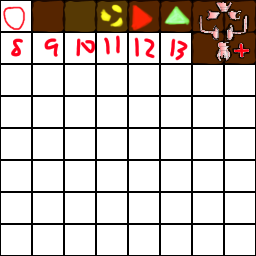
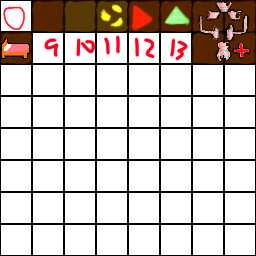
start on day-night cycle

Changed region(s): [[0.0, 0.125, 0.125, 0.25]]

diff --git a/jam-app/src/Game_State/World_State.cpp b/jam-app/src/Game_State/World_State.cpp
@@ -13,13 +13,17 @@ extern Game_App g_game;
 extern int32 g_window_width;
 extern int32 g_window_height;
 
+const real32 day_start = 6;
+const real32 day_end = 10.0;
+
 enum Move_Reason {
     MOVE_NOT_POSSIBLE = 0,
     MOVE_POSSIBLE,
     MOVE_AND_BREAK,
     DEPOSIT_FOOD,
     WITHDRAW_FOOD,
-    ENTER_SHOP
+    ENTER_SHOP,
+    SLEEP
 };
 
 World_State::World_State(const char* filename) {
@@ -56,6 +60,7 @@ World_State::World_State(const char* filename) {
     world.grid.Fill(15, ground_level-4, 8, 5, Tile_Data(1));  // build house
     world.grid[15][ground_level] = Tile_Data(4);    // depositer
     world.grid[14][ground_level+1] = Tile_Data(5);  // withdrawer
+    world.grid[12][ground_level+1] = Tile_Data(8);  // bed
 
     // build upgrade hut
     world.grid[2][ground_level-1] = Tile_Data(6);
@@ -94,6 +99,12 @@ World_State::World_State(const char* filename) {
     dig_strength = 1;
     dig_speed = 1;
 
+    // day-night cycles
+    time_rate = 0.5; // 30 mins every second?
+    time_of_day = day_start;
+    day_number = 1;
+
+    // Hunger
     hunger = 0.0;
     hunger_rate = 0.001;
     move_cost = 0.002;
@@ -115,6 +126,12 @@ World_State::~World_State() {
 void World_State::Update_And_Render(SDL_Renderer* renderer, real32 dt) {
     SDL_SetRenderDrawColor(renderer, 120, 90, 255, 255);
     SDL_RenderClear(renderer);
+
+    // Update Time
+    time_of_day += time_rate * dt;
+    if (time_of_day > 24.0f) {
+        time_of_day -= 24.0f;
+    }
 
     // Draw sprite
     int32 depth = player.world_y - ground_level;
@@ -232,6 +249,27 @@ void World_State::Update_And_Render(SDL_Renderer* renderer, real32 dt) {
     snprintf(buffer, 256, "Depth: %d", depth);
     Render_Text(renderer, g_small_font, color, rect, buffer);
     */
+
+
+    // Time info
+    rect.x = 300;
+    rect.y = 10;
+
+    snprintf(buffer, 256, "Day: %d", day_number);
+    Render_Text(renderer, g_small_font, color, rect, buffer);
+    rect.y += g_font_size_small;
+
+    int32 time_hr = time_of_day;
+    int32 time_min = ((time_of_day - (real32)time_hr) * 60.0f);
+    char* am_pm = "am";
+    if (time_hr >= 12) {
+        time_hr -= 12;
+        am_pm = "pm";
+    }
+    if (time_hr == 0) time_hr = 12;
+    snprintf(buffer, 256, "Time: %2d:%02d %s", time_hr, time_min, am_pm);
+    Render_Text(renderer, g_small_font, color, rect, buffer);
+    rect.y += g_font_size_small;
 }
 
 bool World_State::On_Action_Event(Action_Event action) {
@@ -300,6 +338,14 @@ bool World_State::On_Action_Event(Action_Event action) {
                 }
             } break;
 
+            case SLEEP: {
+                log_info("Going to sleep!");
+                bool allowed_to_sleep = true;
+                if (allowed_to_sleep) {
+                    Next_Day();
+                }
+            } break;
+
             case ENTER_SHOP: {
                 Game_State* new_state = new Shop_State(colony_food, dig_speed, dig_strength);
                 g_game.Push_New_State(new_state);
@@ -365,6 +411,10 @@ uint8 World_State::Move_Entity(int16 start_x, int16 start_y, int16 move_x, int16
         return WITHDRAW_FOOD;
     }
 
+    if (end_cell.type == 8) {
+        return SLEEP;
+    }
+
     if (end_cell.type == 15) {
         return ENTER_SHOP;
     }
@@ -384,4 +434,9 @@ uint8 World_State::Break_Block(int16 world_x, int16 world_y) {
     world.grid[world_x][world_y].type = 0;
 
     return 0;
+}
+
+void World_State::Next_Day() {
+    time_of_day = day_start;
+    day_number++;
 }

diff --git a/jam-app/src/Game_State/Shop_State.cpp b/jam-app/src/Game_State/Shop_State.cpp
@@ -47,13 +47,13 @@ void Shop_State::Update_And_Render(SDL_Renderer* renderer, real32 dt) {
     char buffer[32];
 
     // Shop Title
-    Render_Text(renderer, g_large_font, back_color, rect, "Bug Shop");
+    Render_Text(renderer, g_large_font, back_color, rect, shop_title.c_str());
     rect.x -= offset;
     rect.y -= offset;
-    Render_Text(renderer, g_large_font, color, rect, "Bug Shop");
+    Render_Text(renderer, g_large_font, color, rect, shop_title.c_str());
 
     // Print food/stats
-    rect.y = 50;
+    rect.y = 150;
     rect.x = 400;
     snprintf(buffer, 32, "Food: %d", food);
     Render_Text(renderer, g_medium_font, back_color, rect, buffer);
@@ -110,7 +110,7 @@ void Shop_State::Update_And_Render(SDL_Renderer* renderer, real32 dt) {
     if (current_menu_item != 0) {
         const Upgrade& upgrade = upgrades[current_menu_item - 1];
 
-        rect.y = 200;
+        rect.y = 300;
         rect.x = 450;
 
         Render_Text(renderer, g_medium_font, back_color, rect, upgrade.name.c_str());
@@ -192,9 +192,9 @@ bool Shop_State::On_Action_Event(Action_Event action) {
 }
 
 void Shop_State::Leave_Shop() {
-    if (!Write_Config()) {
-        log_error("Failed to write shop config!");
-    }
+    //if (!Write_Config()) {
+    //    log_error("Failed to write shop config!");
+    //}
 
     g_game.Pop_State();
 }

diff --git a/jam-app/src/Game_State.h b/jam-app/src/Game_State.h
@@ -64,12 +64,16 @@ struct World_State : public Game_State {
 private:
     uint8 Move_Entity(int16 start_x, int16 start_y, int16 move_x, int16 move_y);
     uint8 Break_Block(int16 world_x, int16 world_y);
+    void Next_Day();
 
 private:
     // World
     World world;
     int16 ground_level;
     bool show_debug;
+    real32 time_rate;
+    real32 time_of_day;
+    uint8 day_number;
 
     // Player
     Entity player;
@@ -94,7 +98,7 @@ private:
 
 struct Upgrade {
     Upgrade();
-    
+
     std::string name;
     int16 cost;
     uint8 speed;
